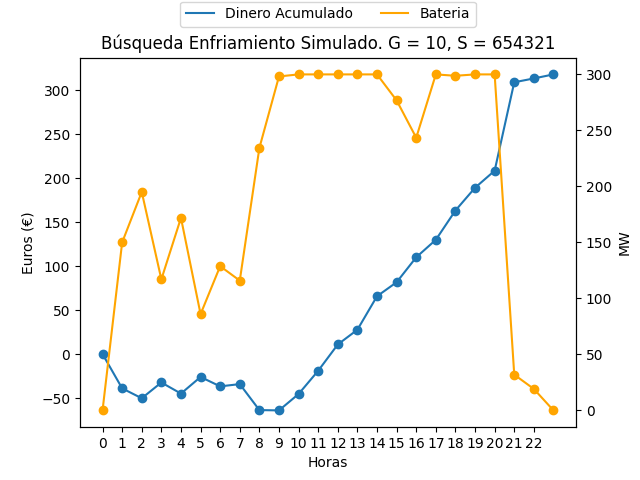
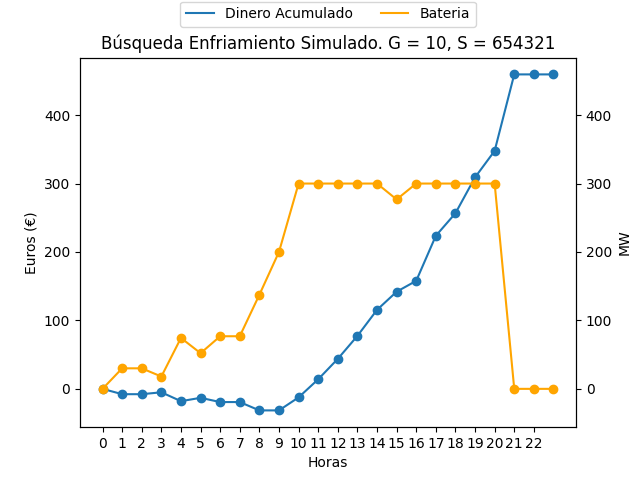
auto-commit:05/03/2023 a las 12:18:23,44

diff --git a/2º Cuatrimestre/[MByHB] Modelos Bioinspirados y Heurísticas de Búsquedas/Prácticas/Práctica 1. Búsquedas Locales/_6_Búsqueda_Enfriamiento_Simulado/busqueda_ES.py b/2º Cuatrimestre/[MByHB] Modelos Bioinspirados y Heurísticas de Búsquedas/Prácticas/Práctica 1. Búsquedas Locales/_6_Búsqueda_Enfriamiento_Simulado/busqueda_ES.py
@@ -8,7 +8,6 @@ import statistics
 import matplotlib.pyplot as plt
 import pandas as pd
 import numpy as np
-from itertools import combinations
 
 isRandom = False
 numero_repeticiones = 5
@@ -59,24 +58,28 @@ def seleccionar_solucion(solucion, granularidad, pos):
 
 def enfriamiento_simulado(semilla, granularidad, num_vecinos_, mu_, phi_):
     random.seed(semilla)
-    solucion_actual = greedy.greedy()[3]  # Solucion Greedy
+    solucion_actual = greedy.greedy(isRandom)[3]  # Solucion Greedy
     t0 = temperatura_inicial(mu_, phi_, solucion_actual)
     t = t0
     k = 0
+
     max_dinero = 0
     dinero_acumulado = []
     temperatura = [t]
     bateria_acumulada = []
     num_evaluaciones = 0
-    while k < 6:  # El algoritmo finaliza cuando se alcance un num maximo de iteraciones
+
+    while k < 8:  # El algoritmo finaliza cuando se alcance un num maximo de iteraciones
         for i in range(num_vecinos_):  # Condicion de Enfriamiento: Cuando se hayan generado un num de vecinos.
 
             solucion_candidata = seleccionar_solucion(solucion_actual, granularidad, random.randint(0, 23))
 
             num_evaluaciones += 2
             max_dinero, dinero_hora, bateria_hora = base.funcion_evaluacion(solucion_candidata, isRandom)
-            delta = max_dinero - base.funcion_evaluacion(solucion_actual, isRandom)[0]
-            #print(delta)
+
+            # Como estamos maximizando, el delta se calcula al revés que en el ppt de teoría.
+            delta = - max_dinero + base.funcion_evaluacion(solucion_actual, isRandom)[0]
+            # if delta > 0: print(np.exp(-delta / t))
             if random.uniform(0, 1) < np.exp(-delta / t) or delta < 0:
                 solucion_actual = solucion_candidata
                 dinero_acumulado = dinero_hora
@@ -84,6 +87,7 @@ def enfriamiento_simulado(semilla, granularidad, num_vecinos_, mu_, phi_):
 
         t = t / (1 + k)  # Esquema de Enfriamiento: Esquema de Cauchy
         k += 1
+        # print(t)
         temperatura.append(t)
     return max_dinero, dinero_acumulado, bateria_acumulada, num_evaluaciones, temperatura, solucion_actual
 
@@ -106,12 +110,11 @@ def experimentacion_parametros():
                                 num_vecinos[nv],
                                 mu[m],
                                 phi[p])
-                        #print(f"phi = {phi[p]} \n mu = {mu[m]}")
                         data = {
                             'mu': [mu[m]],
                             'phi': [phi[p]],
                             'dinero': [dinero_mejor],
-                            'T0': [temperatura_inicial(m, p, greedy.greedy()[3])]
+                            'T0': [temperatura_inicial(mu[m], phi[p], greedy.greedy(isRandom)[3])]
                         }
 
                         if dinero_mejor > max_dinero:
@@ -119,12 +122,13 @@ def experimentacion_parametros():
                             max_mu = mu[m]
                             max_phi = phi[p]
 
-                        #print(data)
-    print(f"mu = {max_mu} \n phi = {max_phi} \n dinero = {max_dinero}")
+                        print(data)
+    print(f"mu = {max_mu} \nphi = {max_phi} \ndinero = {max_dinero}")
 
 
 def graficas_enfriamiento_simulado(nv, m, p):
     # Llamamos a la funcion de búsqueda:
+    temperatura_enfriamiento = []
     for i in range(numero_repeticiones):
         ingresos_granularidad = np.tile(np.array([0 for _ in range(24)], dtype=np.float64), (3, 1))
         for g in range(len(granularidades)):
@@ -136,6 +140,7 @@ def graficas_enfriamiento_simulado(nv, m, p):
                     m,
                     p)
 
+            temperatura_enfriamiento = temperatura
             ingresos_granularidad[g] = dinero_acumulado
             dinero[g, i] = dinero_mejor
             evaluaciones[g, i] = num_evaluaciones_mejor
@@ -155,7 +160,7 @@ def graficas_enfriamiento_simulado(nv, m, p):
             ax.set_xlabel("Horas")
             ax.set_ylabel("Euros (€)")
             ax1.set_ylabel("MW")
-            # ax1.set(ylim=ax.get_ylim())
+            ax1.set(ylim=ax.get_ylim())
             leg = ln0 + ln1
             labs = [legend.get_label() for legend in leg]
             plt.legend(leg, labs, loc='upper center', bbox_to_anchor=(0.5, 1.17), ncol=3)
@@ -167,19 +172,29 @@ def graficas_enfriamiento_simulado(nv, m, p):
                             f'simulated_anealing_g{granularidades[g]}_s{semillas[i]}_ProblemaAleatorio.png')
             plt.show()  # Mostramos la gráfica
             plt.close()
-
-            # Representa el enfriamiento de la temperatura
-            fig, ax = plt.subplots()
-            plt.title(f"Esquema de Enfriamiento. G = {granularidades[g]}, S = {semillas[i]}")
-            ax.plot([j for j in range(len(temperatura))], temperatura, label="Temperatura")
-            plt.legend()
-            plt.xlabel("Iteraciones")
-            plt.ylabel("T")
-            #plt.yscale('log')
-            plt.show()
-            plt.close()
-
             print(solucion)
+
+        # Grafica de ingresos de las tres granularidades:
+        fig, ax = plt.subplots()
+        plt.title(f"Comparacion de ingresos por granularidad\n Semilla: {semillas[i]}")
+        for granularidad in range(3):
+            ln0 = ax.plot([j for j in range(24)], [cent / 100 for cent in ingresos_granularidad[granularidad, :]],
+                          label=f"Ingresos con granularidad = {granularidades[granularidad]}")
+            ax.scatter([j for j in range(24)], [cent / 100 for cent in ingresos_granularidad[granularidad, :]])
+
+        plt.legend()
+        ax.set_xticks(range(0, 24, 1))
+        plt.xlabel("Horas")
+        plt.ylabel("Euros (€)")
+
+        if not isRandom:
+            plt.savefig(f'.\\graficas\\ProblemaReal\\ingresos-granularidad\\'
+                        f'simulated_anealing_s{semillas[i]}_ProblemaReal.png')
+        else:
+            plt.savefig(f'.\\graficas\\ProblemaAleatorio\\ingresos-granularidad\\'
+                        f'simulated_anealing_s{semillas[i]}_ProblemaAleatorio.png')
+        plt.show()
+        plt.close()
 
     # Generamos los datos obtenidos de la búsqueda
     for gr in range(3):
@@ -201,15 +216,33 @@ def graficas_enfriamiento_simulado(nv, m, p):
         # Mostramos los datos obtenidos
         print(f"Granularidad: {granularidades[gr]}")
         print(pd.DataFrame(data))
+    # Representa el enfriamiento de la temperatura
+    fig, ax = plt.subplots()
+    plt.title(f"Esquema de Enfriamiento")
+    ax.plot([j for j in range(len(temperatura_enfriamiento))], temperatura_enfriamiento, label="Temperatura")
+    plt.legend()
+    plt.xlabel("Iteraciones")
+    plt.ylabel("T")
+    # plt.yscale('log')
+    if not isRandom:
+        plt.savefig(f'.\\graficas\\ProblemaReal\\esquema-enfriamiento\\'
+                    f'simulated_anealing_ProblemaReal.png')
+    else:
+        plt.savefig(f'.\\graficas\\ProblemaAleatorio\\esquema-enfriamiento\\'
+                    f'simulated_anealing_ProblemaAleatorio.png')
+    plt.show()
+    plt.close()
 
 
 if __name__ == "__main__":
     if isRandom:
-        graficas_enfriamiento_simulado(30, 0.2, 0.3)
+        #experimentacion_parametros()
+        graficas_enfriamiento_simulado(30, 0.1, 0.1)
     else:
-        graficas_enfriamiento_simulado(30, 0.3, 0.3)
+        #experimentacion_parametros()
+        graficas_enfriamiento_simulado(30, 0.1, 0.1)
 
-    #experimentacion_parametros()
 
-    # 0.2 // 0.3 -> datos aleatorios
-    # 0.3 // 0.3 -> datos reales
+
+    # 0.1 // 0.1 -> datos aleatorios
+    # 0.1 // 0.1 -> datos reales

diff --git a/2º Cuatrimestre/[MByHB] Modelos Bioinspirados y Heurísticas de Búsquedas/Prácticas/Práctica 1. Búsquedas Locales/_1_Búsqueda_Greedy/busqueda_greedy.py b/2º Cuatrimestre/[MByHB] Modelos Bioinspirados y Heurísticas de Búsquedas/Prácticas/Práctica 1. Búsquedas Locales/_1_Búsqueda_Greedy/busqueda_greedy.py
@@ -1,4 +1,5 @@
 import constantes
+import funciones_base as base
 import matplotlib.pyplot as plt
 import pandas as pd
 import statistics
@@ -30,7 +31,10 @@ desviacion_evaluaciones = statistics.stdev(evaluaciones)
 # implementar como algoritmo básico, un Greedy, siguiendo la heurística de guardar desde el principio
 # hasta que se llene y luego vender en el pico de precio del dia toda la energia. A partir de ese momento vender toda
 # la energia.
-def greedy():
+def greedy(israndom):
+
+    precio_venta, precio_compra, r = base.get_vectores(israndom)
+
     hora_venta = precio_venta.index(max(precio_venta))  # Obtiene la hora con el precio mas alto.
     bateria = 0
     dinero = 0
@@ -84,7 +88,7 @@ def grafica_greedy():
 
     # Llamamos a la funcion de búsqueda:
     for i in range(numero_repeticiones):
-        dinero_greedy, dinero_acumulado_gr, bateria_hora_gr, solucion = greedy()
+        dinero_greedy, dinero_acumulado_gr, bateria_hora_gr, solucion = greedy(isRandom)
         dinero[i] = dinero_greedy
 
     fig, ax = plt.subplots()
